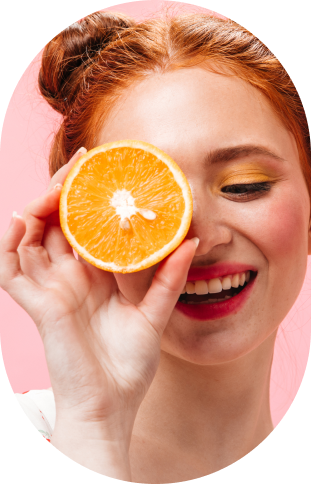
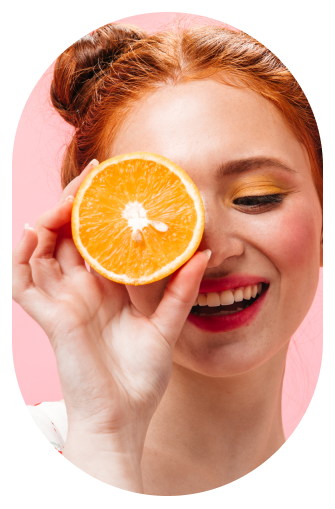
змінила картинки, трохи створила CSSстилі для медіа запитів

diff --git a/src/css/hero.css b/src/css/hero.css
@@ -3,21 +3,42 @@
   max-width: 1280px;
   background: var(--brand-color);
 }
+@media only screen and (min-width: 768px) {
+  .hero-section {
+    max-width: 768px;
+    height: 1503px;
+  }
+}
 .hero-container {
   min-width: 375px;
   height: 1798px;
   position: relative;
   background: var(--brand-color);
 }
+@media only screen and (min-width: 768px) {
+  .hero-container {
+    max-width: 768px;
+  }
+}
 .hero-img-r {
   padding-top: 56px;
   padding-right: 20px;
-  padding-left: 299px;
+  padding-left: 280px;
 }
+
 .hero-img-strawberry {
   width: 56px;
   height: 56px;
   filter: blur(2px);
+}
+@media only screen and (min-width: 768px) {
+  .hero-img-strawberry {
+    position: absolute;
+    width: 108px;
+    height: 108px;
+    filter: blur(4px);
+    margin-left: 210px;
+  }
 }
 .hero-img-banana {
   position: absolute;
@@ -27,32 +48,30 @@
   filter: blur(2px);
   transform: rotate(20deg);
 }
-.img-card-div {
-  position: relative;
-  width: 335px;
-  height: 509px;
-  border: 1px solid;
-  border-color: rgba(255, 255, 255, 0) rgba(255, 255, 255, 1)
-    rgba(255, 255, 255, 0.4418);
-  border-radius: 500px;
+@media only screen and (min-width: 768px) {
+  .hero-img-banana {
+    width: 132px;
+    height: 90px;
+    left: 58px;
+    top: 219px;
+    filter: blur(3.5px);
+  }
 }
-.img-card-div::before {
-  content: '';
-  position: absolute;
-  top: -2px;
-  bottom: -2px;
-  left: -2px;
-  right: -2px;
-  border-radius: 500px;
-  z-index: -1;
-}
+
 .img-card {
   width: 311px;
   height: 484px;
-  background: var(--color-text);
   border-radius: 500px;
   margin-left: 12px;
   margin-bottom: 13px;
+}
+@media only screen and (min-width: 768px) {
+  .img-card {
+    width: 452px;
+    height: 702px;
+    margin-left: 158px;
+    margin-top: 25px;
+  }
 }
 .hero-title {
   position: absolute;
@@ -71,7 +90,15 @@
   text-shadow: 0px 4px 70px rgba(0, 0, 0, 0.1);
   padding-top: 56px;
 }
-
+@media only screen and (min-width: 768px) {
+  .hero-title {
+    width: 704px;
+    height: 168px;
+    left: calc(50% - 704px / 2);
+    font-size: 50px;
+    padding-top: 64px;
+  }
+}
 .btn-hero {
   position: absolute;
   width: 80px;
@@ -92,7 +119,17 @@
   border-radius: 500px;
   border: none;
   z-index: 200;
-  margin-top: 364px;
+  margin-top: 342px;
+}
+@media only screen and (min-width: 768px) {
+  .btn-hero {
+    width: 114px;
+    height: 114px;
+    font-weight: 500;
+    font-size: 28px;
+    margin-top: 484px;
+    margin-left: 200px;
+  }
 }
 .btn-hero:hover,
 .btn-hero:focus {
@@ -193,6 +230,12 @@
   background: #f5ce13;
   border-radius: 500px;
 }
+@media only screen and (min-width: 768px) {
+  .basketstr {
+    left: 455px;
+    top: 953px;
+  }
+}
 .img-basketstr {
   position: absolute;
   width: 162px;
@@ -201,19 +244,19 @@
   top: 61px;
 }
 .hero-text-bask {
-position: absolute;
-width: 163px;
-height: 84px;
-left: 43px;
-top: 263px;
-font-weight: 500;
-font-size: 12px;
-line-height: 1.17;
-display: flex;
-align-items: center;
-text-align: center;
-letter-spacing: -0.04em;
-text-transform: uppercase;
-color: var(--color-text);
-text-shadow: 0px 4px 70px rgba(0, 0, 0, 0.1);
+  position: absolute;
+  width: 163px;
+  height: 84px;
+  left: 43px;
+  top: 263px;
+  font-weight: 500;
+  font-size: 12px;
+  line-height: 1.17;
+  display: flex;
+  align-items: center;
+  text-align: center;
+  letter-spacing: -0.04em;
+  text-transform: uppercase;
+  color: var(--color-text);
+  text-shadow: 0px 4px 70px rgba(0, 0, 0, 0.1);
 }

diff --git a/src/partials/hero.html b/src/partials/hero.html
@@ -38,21 +38,21 @@
         />
       </li>
       <li class="img-card-list">
-        <div class="img-card-div">
-          <img
-            class="img-card"
-            srcset="
-              ../img/hero/young-ener-girl_mob@1x.webp 1x,
-              ../img/hero/young-ener-girl_mob@2x.webp 2x,
-              ../img/hero/young-ener-girl_td@1x.webp  1x,
-              ../img/hero/young-ener-girl_td@2x.webp  2x
-            "
-            src="../img/hero/young-ener-girl_td@1x.png"
-            alt="young-ener-girl"
-            width="452"
-            height="702"
-          />
-        </div>
+        <img
+          class="img-card"
+          srcset="
+            ../img/hero/young-ener-girl_mob@1x.webp  1x,
+            ../img/hero/young-ener-girl_mob@2x.webp  2x,
+            ../img/hero/young-ener-girl_tab@1x.webp  1x,
+            ../img/hero/young-ener-girl_tab@2x.webp  2x,
+            ../img/hero/young-ener-girl_desk@1x.webp 1x,
+            ../img/hero/young-ener-girl_desk@2x.webp 2x
+          "
+          src="../img/hero/young-ener-girl_desk@1x.png"
+          alt="young-ener-girl"
+          width="452"
+          height="702"
+        />
       </li>
     </ul>
     <p class="hero-desc">
